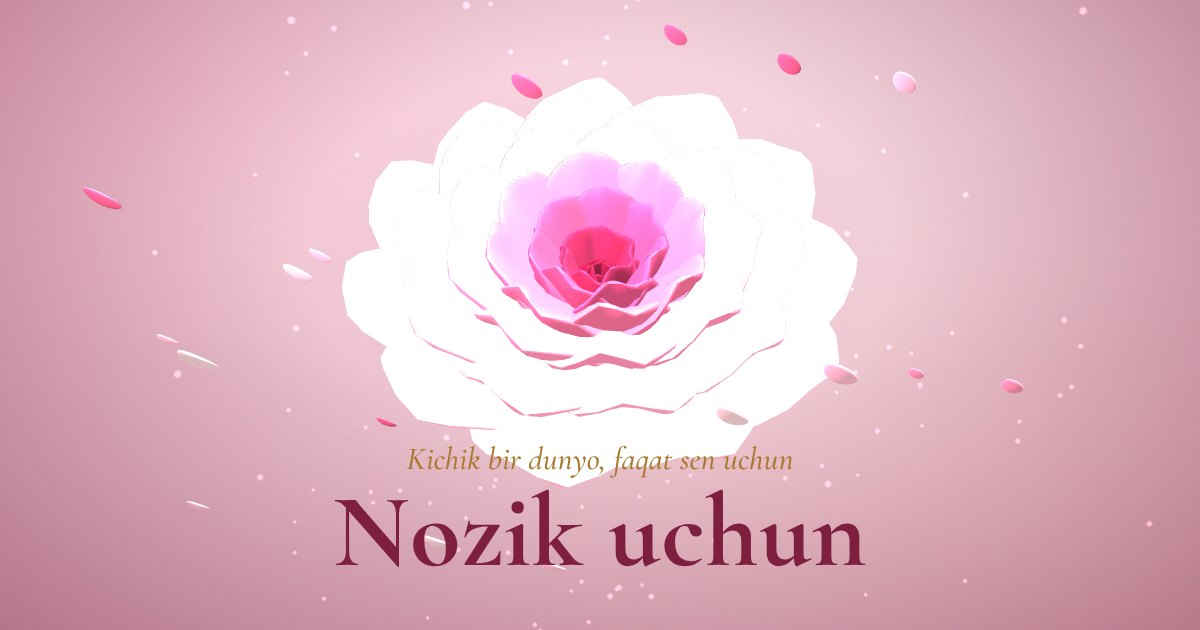
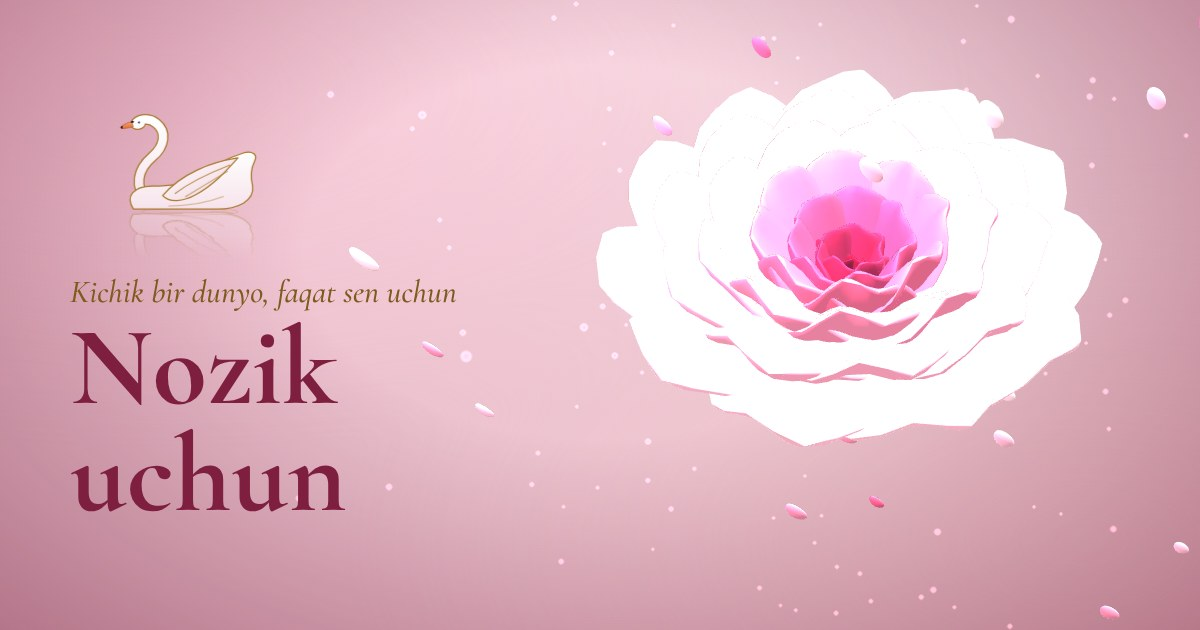
Round 4: link preview with Nozik's swan, field limits, game labels
- New link preview: her swan with its reflection and 'Nozik uchun' on
  the left, the 3D peony on the right; alt text updated.
- Text fields have the same length limits as the server (name 40,
  Tanqid 1000, feedback 2000, chat 500), so nothing is cut off silently.
- Falling photos in the catch game are named for screen readers.

Claude-Session: https://claude.ai/code/session_014vmnQvtuEkL3EpAXfYGM6e

diff --git a/site/index.html b/site/index.html
@@ -13,7 +13,7 @@
 <meta property="og:image:type" content="image/jpeg">
 <meta property="og:image:width" content="1200">
 <meta property="og:image:height" content="630">
-<meta property="og:image:alt" content="Pushti pion gul va Nozik ismi">
+<meta property="og:image:alt" content="Oqqush, pushti pion gul va «Nozik uchun» yozuvi">
 <meta property="og:locale" content="uz_UZ">
 <meta name="twitter:card" content="summary_large_image">
 <meta name="twitter:title" content="Nozik uchun">
@@ -448,9 +448,9 @@ body:not(.flfull) #fname.on:not(.fnt){opacity:0}
 <div class="gp gl ctr mx" id="g-st" hidden><h3>Yulduzlarni ulab koʻr</h3><p class="mut">1 dan 12 gacha tartib bilan bossang, nimadir chiqadi.</p><svg id="cs" viewBox="0 0 300 260" role="group" aria-label="Yulduzlar"></svg><p id="cm" class="mut"></p><button class="b g" id="cb">Qaytadan</button></div>
 <div class="gp gl ctr mx" id="g-wi" hidden><h3>Orzu mashinasi</h3><p class="mut">Bos, bugunga bir tilak chiqadi.</p><p id="wm" style="font:italic 500 24px/1.4 'Cormorant Garamond',serif;color:var(--hd);min-height:6em">…</p><button class="b" id="wb">Orzu olish</button></div></div>
 <p class="sorry rv">Yaxshi lahzalar tez oʻtib ketadi. Men ularni jahlim tufayli yoʻqotgim kelmaydi.</p></div></section>
-<section class="pg" id="p-tanqid"><div class="wrap"><div class="sec rv"><div class="band"></div><h2>Tanqid</h2><p class="lead">Bu yerda ikkimiz ham ochiq gapiramiz. Ayblash uchun emas, bir-birimizni tushunish uchun.</p><p class="mut">Bu yerga yozilganini saytni ochgan hamma koʻradi. Har kim faqat oʻzi yozganini oʻzgartira yoki oʻchira oladi.</p><p class="mut" id="cr-note"></p><input id="crname" class="crt" style="max-width:320px" placeholder="Ismingni yoz (shart emas)" aria-label="Ism"></div>
-<div class="two2"><div class="gl rv"><h3>Men qilgan xatolar</h3><p class="mut">Farkhod haqida</p><div id="cr-me" class="crl"></div><textarea class="crt" rows="3" placeholder="Nima yoqmadi? Ochiq yoz." aria-label="Matn"></textarea><button class="b cradd" data-side="me">Qoʻshish</button></div>
-<div class="gl rv"><h3>Meni xafa qilgan narsalar</h3><p class="mut">Nozik haqida, ayblash uchun emas</p><div id="cr-her" class="crl"></div><textarea class="crt" rows="3" placeholder="Seni nima xafa qildi?" aria-label="Matn"></textarea><button class="b cradd" data-side="her">Qoʻshish</button></div></div></div></section>
+<section class="pg" id="p-tanqid"><div class="wrap"><div class="sec rv"><div class="band"></div><h2>Tanqid</h2><p class="lead">Bu yerda ikkimiz ham ochiq gapiramiz. Ayblash uchun emas, bir-birimizni tushunish uchun.</p><p class="mut">Bu yerga yozilganini saytni ochgan hamma koʻradi. Har kim faqat oʻzi yozganini oʻzgartira yoki oʻchira oladi.</p><p class="mut" id="cr-note"></p><input id="crname" class="crt" maxlength="40" style="max-width:320px" placeholder="Ismingni yoz (shart emas)" aria-label="Ism"></div>
+<div class="two2"><div class="gl rv"><h3>Men qilgan xatolar</h3><p class="mut">Farkhod haqida</p><div id="cr-me" class="crl"></div><textarea class="crt" rows="3" placeholder="Nima yoqmadi? Ochiq yoz." aria-label="Matn" maxlength="1000"></textarea><button class="b cradd" data-side="me">Qoʻshish</button></div>
+<div class="gl rv"><h3>Meni xafa qilgan narsalar</h3><p class="mut">Nozik haqida, ayblash uchun emas</p><div id="cr-her" class="crl"></div><textarea class="crt" rows="3" placeholder="Seni nima xafa qildi?" aria-label="Matn" maxlength="1000"></textarea><button class="b cradd" data-side="her">Qoʻshish</button></div></div></div></section>
 <section class="pg" id="p-test"><div class="wrap"><div class="sec rv"><div class="band"></div><h2>Biz haqimizda test</h2><p class="lead">Uchta savol. Javobini bilasan, deb oʻylayman.</p></div>
 <div class="gl mx rv ctr"><div id="qz"></div></div>
 <p class="sorry rv">Biz bir-birimizni tinglashni yaxshi koʻrardik-ku. Yana shunday boʻlishini xohlayman.</p></div></section>
@@ -465,7 +465,7 @@ body:not(.flfull) #fname.on:not(.fnt){opacity:0}
 <div class="grid" style="grid-template-columns:repeat(auto-fit,minmax(240px,1fr))"><div class="gl rv"><h3>Tinchlik</h3><p>Janjalda tinch boʻlaman, ovozimni koʻtarmayman.</p></div><div class="gl rv" style="--d:1"><h3>Ochiqlik</h3><p>Jim qolib ketmayman. Muammo boʻlsa, ochiq gaplashib, oxirigacha hal qilamiz.</p></div><div class="gl rv" style="--d:2"><h3>Tinglash</h3><p>Avval seni tinglayman, keyin javob beraman.</p></div></div>
 <div class="gl mx rv ctr" style="margin-top:44px"><h2>Ovozingni eshitgim keladi</h2><p>Xohlasang, Telegram’da yoz yoki qoʻngʻiroq qil.</p><div><a class="b" id="wa" href="https://t.me/ffarxod" target="_blank" rel="noopener">Telegram’da yozish</a> <button class="b g" id="wtb">Menga biroz vaqt kerak</button></div><p id="wt" class="sorry" hidden>Tushunaman. Shoshilma, men shu yerdaman.</p><p class="mut" style="margin-top:18px">Farkhod</p></div></div></section>
 <section class="pg" id="p-feedback"><div class="wrap"><div class="sec rv"><div class="band"></div><h2>Fikring</h2><p class="lead">Sayt haqida nima deb oʻylaysan? Shu yerga yoz, xabaring toʻgʻri menga keladi. Nima yoqdi, nima yoqmadi, hammasi men uchun qiziq.</p></div>
-<div class="gl mx rv"><input id="fbn" class="crt" placeholder="Ismingni yoz (shart emas)" aria-label="Ism"><textarea id="fbm" class="crt" rows="5" placeholder="Fikring, taklifing yoki topgan xatoing..." aria-label="Fikring"></textarea><div class="ctr"><button class="b" id="fbs" type="button">Yuborish</button></div><p id="fbt" class="mut ctr" aria-live="polite"></p></div></div></section>
+<div class="gl mx rv"><input id="fbn" class="crt" maxlength="40" placeholder="Ismingni yoz (shart emas)" aria-label="Ism"><textarea id="fbm" class="crt" maxlength="2000" rows="5" placeholder="Fikring, taklifing yoki topgan xatoing..." aria-label="Fikring"></textarea><div class="ctr"><button class="b" id="fbs" type="button">Yuborish</button></div><p id="fbt" class="mut ctr" aria-live="polite"></p></div></div></section>
 <section class="pg" id="p-contact"><div class="wrap"><div class="sec rv ctr"><div class="band" style="margin:0 auto 18px"></div><h2>Aloqa</h2><p class="big" style="margin:.2em 0">Uni quyosh yonidan top.</p><p class="lead mx" style="text-align:center">Yoki shunchaki yoz, men javob beraman.</p><a class="b" href="https://t.me/ffarxod" target="_blank" rel="noopener">Telegram’da yozish</a></div></div></section>
 <div id="det"><div class="dw"><button class="b g" id="dback" style="margin:0">← Sevimlilarga qaytish</button><div id="dc"></div><div class="dn"><button class="b g" id="dp">‹ Oldingisi</button><button class="b g" id="dnx">Keyingisi ›</button></div></div></div>
 <div id="bear" role="button" tabindex="0" aria-label="Pushti ayiqcha: bossang, bir gap aytadi"><div class="pc"><b id="pq"></b><small id="pa"></small></div>
@@ -480,7 +480,7 @@ body:not(.flfull) #fname.on:not(.fnt){opacity:0}
 <g id="ey" transform="translate(0 -24)"><circle cx="-10" r="3" fill="#4b1d33"/><circle cx="10" r="3" fill="#4b1d33"/><circle cx="-9" cy="-1" r="1" fill="#fff"/><circle cx="11" cy="-1" r="1" fill="#fff"/></g>
 <ellipse cx="-18" cy="-13" rx="5" ry="3" fill="#ff7da6" opacity=".6"/><ellipse cx="18" cy="-13" rx="5" ry="3" fill="#ff7da6" opacity=".6"/></g></g></svg>
 <div id="bmenu"><button id="bm1">Ayiqcha bilan gaplashish</button><button id="bm2">Keyingi sahifa →</button></div></div>
-<div id="chat" role="dialog" aria-label="Ayiqcha chatbot"><div class="ch"><b>Ayiqcha</b><small>chatbot</small><button id="cx" aria-label="Yopish">✕</button></div><div id="cl" aria-live="polite"></div><div id="cq"></div><div class="cf"><input id="ci" placeholder="Xabar yoz..." autocomplete="off" aria-label="Xabar"><button class="b" id="csn" aria-label="Yuborish">➤</button></div></div>
+<div id="chat" role="dialog" aria-label="Ayiqcha chatbot"><div class="ch"><b>Ayiqcha</b><small>chatbot</small><button id="cx" aria-label="Yopish">✕</button></div><div id="cl" aria-live="polite"></div><div id="cq"></div><div class="cf"><input id="ci" maxlength="500" placeholder="Xabar yoz..." autocomplete="off" aria-label="Xabar"><button class="b" id="csn" aria-label="Yuborish">➤</button></div></div>
 <audio id="au" loop preload="none" src="song.m4a"></audio>
 <script>
 const $=s=>document.querySelector(s),$$=s=>[...document.querySelectorAll(s)],pgs=$$('.pg'),N=pgs.length,NM=8;
@@ -684,7 +684,7 @@ addEventListener('hashchange',route);
 {const big=$('#p-kechirim .big');let done=0;if(big&&'IntersectionObserver' in window)new IntersectionObserver(es=>es.forEach(e=>{if(e.isIntersecting&&!done&&R[cur]==='kechirim'){done=1;setTimeout(()=>{F.burst(220);forceDance('disco');card(Q[0][0],Q[0][1])},700)}}),{threshold:.9}).observe(big)}
 let stp=0;$('#gb').onclick=()=>{const a=$('#arena');let n=0,t=0;a.innerHTML='';$('#cnt').textContent=0;$('#gm').textContent='';$('#gb').disabled=true;const E=[['Kit Kat','🍫'],['Laghman','🍜'],['Mushuklar','🐱'],['Fuse Tea','🧃'],['Yoz','☀'],['Oshpazlik va kinolar','🍳'],[0,'🌸']];
 const iv=setInterval(()=>{if(++t>40){clearInterval(iv);setTimeout(()=>{$('#gb').disabled=false;$('#gb').textContent='Yana oʻynaymizmi?';$('#gm').textContent='Zoʻr, '+n+' ta tutding!';F.burst(120)},3600);return}
-const e=document.createElement('button');e.className='fall';{const q=E[Math.random()*E.length|0];e.innerHTML=`<img src="${cU(q[0]?PH[q[0]][0]:XP.pion,120)}" alt="" draggable="false" referrerpolicy="no-referrer" onerror="this.parentNode.textContent='${q[1]}'">`}e.style.left=Math.random()*82+'%';e.style.animationDuration=3.4+Math.random()*2+'s';e.onclick=()=>{e.remove();$('#cnt').textContent=++n;F.burst(14)};e.onanimationend=()=>e.remove();a.appendChild(e)},620)};
+const e=document.createElement('button');e.className='fall';{const q=E[Math.random()*E.length|0];e.setAttribute('aria-label',q[0]||'Pion gul');e.innerHTML=`<img src="${cU(q[0]?PH[q[0]][0]:XP.pion,120)}" alt="" draggable="false" referrerpolicy="no-referrer" onerror="this.parentNode.textContent='${q[1]}'">`}e.style.left=Math.random()*82+'%';e.style.animationDuration=3.4+Math.random()*2+'s';e.onclick=()=>{e.remove();$('#cnt').textContent=++n;F.burst(14)};e.onanimationend=()=>e.remove();a.appendChild(e)},620)};
 $('#wb').onclick=()=>{const w=WS[Math.random()*WS.length|0],m=$('#wm');m.innerHTML=tn(w[1]?PH[w[1]][0]:XP.pion,'🌸','big');m.append(document.createTextNode(w[0]));F.burst(60)};
 (function(){const Qz=[['Biz qaysi yili tanishganmiz?',['2021','2022','2023'],1,'Toʻgʻri, 2022. Yangi maktabda boshlangan edi.'],['Yozda kasalxona hovlisida necha soat gaplashdik?',['30 daqiqa','1 soat','2 soatdan koʻproq'],2,'2 soatdan oshdi, lekin menga baribir kam tuyuldi.'],['Faqat ikkalamiz tushunadigan soʻz qaysi?',['jonim','boʻq','azizim'],1,'Boʻq, albatta :) Faqat ikkalamizning tilimiz.']];let i=0,sc=0;const Bx=$('#qz');
 (function r(){const q=Qz[i];Bx.innerHTML=`<h3>${q[0]}</h3>`+q[1].map((o,j)=>`<button class="b g opt" data-j="${j}">${o}</button>`).join('')+'<p id="qn"></p>';
@@ -763,7 +763,7 @@ async function api(body){const r=await fetch('/api/tanqid',body?{method:'POST',h
 async function load(){try{const r=await api();items=r.items||[];isAdm=!!r.admin;ok=true;say('')}catch(e){if(ok!==true)say('Hozir yozuvlarni yuklab boʻlmadi. Birozdan keyin qayta urinib koʻr.');ok=false}render()}
 async function act(body,done){if(busy)return;busy=1;say('Saqlanmoqda…');try{const r=await api(body);items=r.items||[];isAdm=!!r.admin;ok=true;say('');done&&done()}catch(e){say(e.code=='full'?'Joy toʻldi, boshqa yozib boʻlmaydi.':'Saqlab boʻlmadi. Internetni tekshirib, qayta urinib koʻr.')}busy=0;render()}
 const btn=(t,c,f)=>{const b=document.createElement('button');b.className='b '+c;b.textContent=t;b.onclick=f;return b};
-function edit(x,d){const t=document.createElement('textarea'),a=document.createElement('div');t.className='crt';t.rows=3;t.value=x.text;a.className='ca';a.append(btn('Saqlash','',()=>{const v=t.value.trim();if(v)act({action:'edit',id:x.id,text:v})}),btn('Bekor qilish','g',render));d.innerHTML='';d.append(t,a);t.focus()}
+function edit(x,d){const t=document.createElement('textarea'),a=document.createElement('div');t.className='crt';t.rows=3;t.maxLength=1000;t.value=x.text;a.className='ca';a.append(btn('Saqlash','',()=>{const v=t.value.trim();if(v)act({action:'edit',id:x.id,text:v})}),btn('Bekor qilish','g',render));d.innerHTML='';d.append(t,a);t.focus()}
 function render(){const L=[...SEED.map((x,i)=>({...x,by:'Farkhod',ts:i,mine:false})),...items];['me','her'].forEach(sd=>{const box=$('#cr-'+sd),arr=L.filter(x=>x.side==sd);box.innerHTML='';if(!arr.length){box.innerHTML='<p class="mut">Hozircha hech narsa yoʻq.</p>';return}
 arr.forEach((x,i)=>{const d=document.createElement('div'),p=document.createElement('p'),sm=document.createElement('small');d.className='cri';p.style.margin='0';p.textContent=(i+1)+'. '+x.text;sm.textContent=(x.by||'Mehmon')+(x.mine?' (sen)':'')+ago(x);d.append(p,sm);
 if(x.mine||(isAdm&&!/^s\d/.test(x.id))){const a=document.createElement('div');a.className='ca';const r=btn('Oʻchirish','g',()=>{if(r.dataset.c)act({action:'delete',id:x.id});else{r.dataset.c=1;r.textContent='Aniqmi?';setTimeout(()=>{r.dataset.c='';r.textContent='Oʻchirish'},3000)}});if(x.mine)a.append(btn('Tahrirlash','g',()=>edit(x,d)));a.append(r);d.append(a)}box.append(d)})})}
